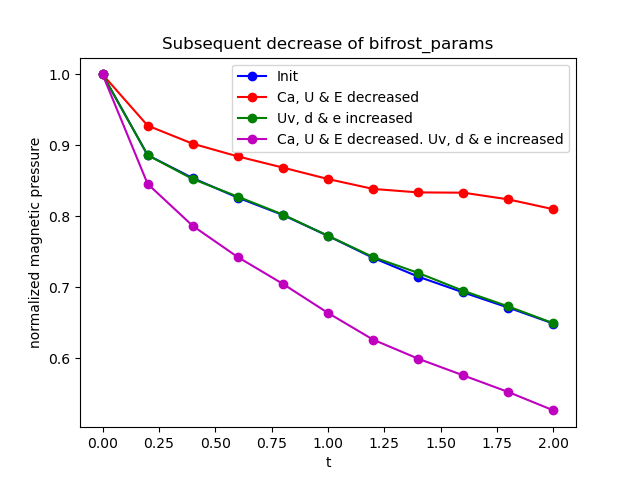
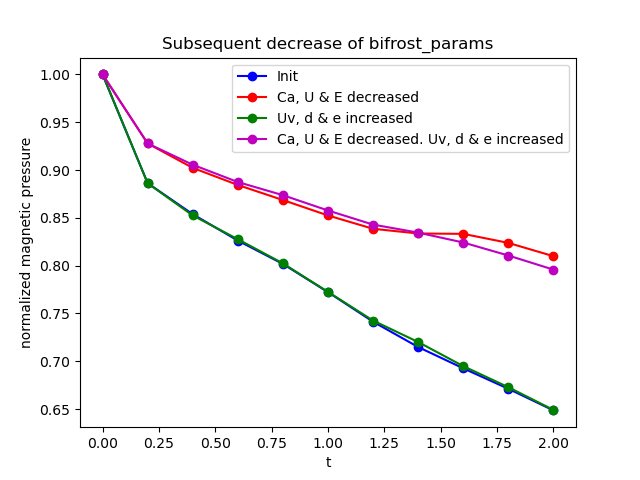
deploy: 311d6cb1bde16a8eb93fb808b51a810be9d6de2e

diff --git a/docs/searchindex.js b/docs/searchindex.js
@@ -1,1 +1,1 @@
-Search.setIndex({docnames:["briowu","index","magloop","mhd_blast","orszagtang","practiceI","practiceV","rayleigh_taylor","sedov","sod"],envversion:{"sphinx.domains.c":2,"sphinx.domains.changeset":1,"sphinx.domains.citation":1,"sphinx.domains.cpp":3,"sphinx.domains.index":1,"sphinx.domains.javascript":2,"sphinx.domains.math":2,"sphinx.domains.python":2,"sphinx.domains.rst":2,"sphinx.domains.std":2,sphinx:56},filenames:["briowu.rst","index.rst","magloop.rst","mhd_blast.rst","orszagtang.rst","practiceI.rst","practiceV.rst","rayleigh_taylor.rst","sedov.rst","sod.rst"],objects:{},objnames:{},objtypes:{},terms:{"004":[3,4,8],"0049":4,"005":4,"0067":4,"007":4,"008":4,"0085":4,"009":4,"0125":8,"022":3,"025":7,"0625":2,"0711":3,"0ms":3,"100":[0,3,6,8,9],"1000":[5,6],"1024":7,"1086":4,"1088":4,"10m":3,"125":[0,3,9],"128":7,"128x256":7,"192x192":4,"195":4,"1998":4,"1ms":3,"2008":4,"200x200":4,"2011":[4,7],"21m":3,"256":7,"256x256":4,"299c6d5":0,"300":5,"3000000":5,"306481":4,"3125":4,"38000":5,"427":4,"4277":4,"43000":5,"48s":4,"512":7,"588755":4,"5e8f853":[0,3,4,8,9],"7800":5,"8x8":3,"case":[1,2,8],"default":[7,9],"export":3,"final":[0,2,3,4,8,9],"function":7,"import":[5,6],"return":2,"throw":6,"while":[0,3,4,6,7,8,9],And:[2,8,9],Are:5,For:[0,2,3,4,8,9],The:[0,2,3,4,6,7,8,9],Their:4,Then:[3,4,8],There:[3,4,6,7],These:[0,3,4,8,9],Using:[2,3],With:[3,7],abel:7,abil:6,abov:[0,2,3,4,6,8,9],abrupt:4,accoridnagli:2,accoridngli:2,actual:4,addit:[3,8],addjust:[1,9],adjust:[1,3],advect:1,aff3841:2,affect:[0,3,7,9],afraid:6,after:[0,3,4,6,7],again:3,age:5,air:6,align:3,all:[0,1,2,4],almost:[3,4,8],along:4,also:[0,2,3,4,7],alwai:5,analysi:6,analyz:9,anoth:0,appar:3,appear:[2,3],approach:4,appropri:3,approxim:4,around:[3,4],arrai:[5,7],articl:4,axi:[4,9],back:7,bare:3,beat:6,becom:[3,7],been:[0,3],beer:6,befor:[0,4],begin:[0,3,4,9],behav:9,behaviour:[0,3],below:[0,2,3,4,5,6,8,9],better:[4,6],between:[3,4],bifrost:1,bifrost_param:[2,4],big:5,blast:[1,8],both:[3,4,7],bottom:[2,3,4,7],boundari:[4,7],box:[2,3],branch:[0,2,3,4,8,9],brio:1,british:6,brown:5,bx0:[3,8],by0:[3,8],bz0:[3,8],campar:5,can:[2,6,7,9],cartesian:[2,3],cartesian_param:[0,2,3,4,8],caus:[2,3],celebr:6,cell:4,center:[2,3],centr:[3,8],chang:[1,2,3,8,9],chaotic:7,check:2,circl:3,circular:2,clear:3,clearli:[2,3,7],climb:5,cm3:3,code:[5,9],coincid:[3,4],color:[3,5],colorbar:3,com:7,combin:2,come:6,commit:[8,9],compar:[1,2,3,4,7,9],comparison:[0,1,2,4],compil:4,complet:[0,2],compon:[0,3,8],comput:[0,3,4],condit:[1,7],configur:[0,3,4],consecut:6,consid:[2,4],constant:[7,8,9],continu:[0,3],contour:3,corner:[2,3],corrdin:3,correct:7,correspond:[0,3,4,8],crash:3,creat:3,curv:9,cycl:2,dane:6,darger:3,dark:3,declin:2,decreas:[0,3,9],deltai:7,deltavi:7,denisti:[0,9],densiti:[1,7],depend:7,deriv:4,despit:6,detail:[3,5,7],develop:[0,2,3,4,8,9],deviat:3,diamet:2,did:[3,4,7],differ:[0,1,2,4,8,9],dim:[0,2,3,4,8,9],dimens:4,dimmer:2,direct:[1,2,4],discov:[0,9],dispatch:[0,7],displai:2,distribut:[3,5],divid:9,do_check_nan:[2,3,4,8],document:7,doe:[4,7],doesn:3,don:4,done:6,dot:3,drop:4,due:3,durat:6,dure:[0,5,6,8,9],dymax:7,dymin:7,each:[0,3,4,9],eachoth:9,easiest:0,edg:3,effect:[2,3],either:9,ellipt:3,end:[3,4,6],end_tim:[2,3,4,8],energi:1,entir:3,environ:4,equat:[0,2,3,4],error:[0,9],eta:4,euro:6,evenli:3,everi:[5,8,9],everyon:5,evid:[0,3,6],evolut:[1,3,7],exactli:4,exce:4,except:[0,3,8],excericis:5,exist:7,experi:[0,1,2,4,9],experimemt:1,experiment:7,experiment_param:[3,8],explain:5,explicitli:2,factor:[0,3,8],fall:[6,7],fat:5,featur:3,field:[0,1],figur:[0,3,7,9],file:[0,9],fine:2,finer:7,finger:7,finish:0,first:[4,6,7,8,9],five:0,fix:[0,3,7,9],flawless:6,flow:7,fluctuat:4,follow:[0,3,5,7,8,9],follw:8,footbal:6,found:9,four:[2,4],from:[0,1,2,3,4,6,9],further:[0,2,3],gamma:[0,2,3,4,7,8,9],gap:2,gas:[2,4,7],get:[0,2,3,4],github:7,give:7,given:[3,8],goal:6,goalkeep:6,going:[3,5,8,9],good:5,got:[3,9],grace:[2,3,4,8],greater:4,grid:[2,3,4,9],had:4,half:0,has:[0,2,3,4,6,7],hash:[0,2,3,4,8,9],have:[0,2,3,4,6,7,8,9],heart:6,heartbeat:6,held:0,here:[0,2,3,4,8,9],high:[2,3,4],higher:[3,4],hoizont:9,hold:[8,9],home:6,hope:6,horizont:9,how:[3,7,9],howev:3,http:[4,7],human:5,ic_param:[2,4],ideal_mhd:7,ident:[3,4,8],idirect:[2,4],imag:[0,2,3,4,6,8],includ:[0,2,3,4,8,9],includnig:0,increas:[0,4,8,9],increment:4,indic:0,individu:1,init:[8,9],initi:[1,7],initialbifrost:9,input:0,insid:[3,8],instabl:1,instanc:8,interchan:3,interchang:[3,4],inth:5,intial:7,introduc:7,iop:4,iopscienc:4,irigin:3,ita:7,its:[0,2],jordan:6,just:[4,7],kap:4,kasper:6,keep:3,kill:5,know:5,label:5,lack:3,larg:3,larger:[3,4,7],last:9,lastli:8,later:[2,3,9],latter:3,law:[0,2,3,4],least:9,led:0,left:[0,2,3,4,8,9],legend:[0,5],less:[3,4,7],let:6,level:4,lie:[4,9],lies:[0,4],lighter:3,like:[3,6],line:[0,1,3,7,8],linear:7,linspac:[5,6],list:[0,2,3],littl:3,live:5,local:4,longer:3,look:[2,3,4,6,8],loop:1,lost:6,lot:3,low:3,lower:[2,3,4],made:7,magnet:[0,1],magnetohydrodynam:3,magnitud:1,magntic:4,magntiud:3,mai:3,main:[2,9],make:[0,7],make_plot:7,make_snap:7,manget:0,mani:3,martin:4,mas:4,match:4,matplotlib:[5,6],maxima:3,maximum:[3,4],medium:5,messag:[8,9],mhd:1,mhd_eo:[1,2,4,7],mhd_templat:7,middl:3,miniati:4,minimum:4,minor:3,minut:6,miss:6,more:[2,3,4,5,7],move:[2,7],mpi_dim:[2,3,4,8],much:4,must:3,name:[3,4],neither:3,never:[5,6],next:[5,9],nml:9,no_mans_land:[2,3,4,8],nois:3,noisi:3,non:7,none:3,nonzero:3,normal:1,notic:[0,2,3],now:[0,2,3,4,7,9],nu1:7,nu2:7,nu3:7,nu_r:7,number:[4,5,6,8,9],numpi:[5,6],obtain:[3,4],obvious:6,occur:4,ofd:4,omit:0,omp_num_thread:[3,4],onc:3,one:[0,4,6,7,8,9],ones:[0,3,6],onli:[2,3,4,9],option:0,order:[2,8],org:4,origin:[0,2,3,4,8],orszag:1,oscil:2,other:[0,2,3,4,7,8,9],otherwis:3,our:[4,9],out:3,out_param:[2,3,4],out_tim:[2,3,4,8],outcom:6,output:3,output_param:8,outsid:[3,8],over:2,overal:[2,3,4],overlap:[0,4],panel:[2,3,4],paragraph:6,paramet:1,part:[2,9],particular:[0,9],patch:3,patch_param:[0,2,3,4,8,9],pattern:7,pdf:4,peak:4,penalti:6,peopl:6,perform:[3,4],period:[2,3,4,8],permut:4,physiolog:6,pickford:6,pig:5,pink:5,place:2,placehold:7,plane:[1,4],player:6,plot:[0,2,3,4,5,6,7,9],plt:[5,6],pnale:3,point:4,pointi:3,posess:7,posit:2,possibl:[6,7],present:[3,8,9],pressur:[1,9],previou:[0,9],print_tim:[2,3,4,8],problem:[8,9],proce:4,produc:[0,9],profil:[0,1,3,7],program:0,purpos:6,pyplot:[5,6],python:5,quantit:3,quantiti:[0,3,4,7,8,9],quit:6,rach:4,radiu:3,rams:1,ramses:9,ramses_param:[1,3,9],rang:4,rate:6,rayleigh:1,reach:4,reason:6,rectangular:2,reduc:[1,2,3,8],reduct:[0,2,3],refer:0,region:3,relat:[2,5],remain:[0,2,3,4],remina:4,render:7,report:[0,2,3,4,8,9],repositori:7,repres:9,repsect:4,resembl:4,resolut:[1,7],respect:[0,3,4],respecti:0,result:[1,8,9],rho:[0,9],right:[0,2,3,4,7,8,9],rippl:2,roll:7,roughli:4,round:3,run:[0,1,2,3,4],ryu:4,same:[0,2,3,4,7,8,9],saw:3,scale:7,schmeichel:6,score:6,script:1,second:[4,7,8,9],sedov:1,see:[0,2,3,4,8,9],seem:[3,4],seen:6,separ:3,set:[0,2],setup:3,sever:9,shape:[2,3,4],shift:7,shootout:6,shooutout:6,shot:6,should:9,show:[0,2,3,4,5,6,8,9],shown:[0,2,3,4],side:[7,8],signific:3,similar:[3,4],similarli:[3,4],simpl:6,simul:[0,1,7],sin:6,sinc:[0,2,3],singl:1,size:[0,2,3,4,5,8],slice:4,slighlti:4,slight:3,slightli:[3,4],slope:1,slope_typ:[0,2,3,4,7,9],slope_type1:9,slope_type2:9,slope_type3:9,small:[3,4,5],smaller:7,smear:3,snapshot:[2,7,8],sod:1,solar:7,solut:7,solver:[1,7],some:[3,5,7],somewhat:3,specif:9,split:9,squirrel:5,stagger_param:4,start:[0,3,4],state:[0,2,3,4,7,9],steadi:2,steep:4,sterl:6,still:2,stone:4,straight:3,strang:3,stretch:3,strongest:3,studi:[0,2,3,5,7,9],subpar:6,subsequ:[0,3],sudden:4,swow:3,symmetr:7,symmetri:7,tabl:[0,3,5,6,8,9],tabul:2,taken:[4,7],tang:1,taylor:1,test:[0,8,9],than:[2,3,4,6],thei:4,therefor:0,thi:[0,2,3,4,5,6,7,9],thin:3,third:4,thorough:6,three:[0,2,4,6,9],thrid:4,throughout:[2,3],thu:4,time:[0,2,3,4,6,7,8,9],titl:5,tonight:6,too:4,top:[3,9],toward:[2,3,4],tri:7,turbul:7,two:[2,3,4,7,8],type:1,unabl:0,unadjust:[3,8,9],unchang:[0,1,8,9],uncom:7,until:4,updat:1,upper:[2,3,4],use:[0,2,3,7,8,9],used:[0,2,3,4,7,8,9],uses:9,using:[0,2,3,8],valu:[0,2,3,4,7,8,9],variabl:7,variou:[5,7],velciti:3,veloc:[0,1,2,9],veri:[2,3,4],verif:[0,3,8,9],verifi:9,video:6,visibl:[0,3],visual:2,vortex:1,wai:[3,4,8],want:[6,9],websit:5,well:[3,4],were:[0,3,4,8,9],what:[3,4],when:[3,5,8,9],where:[0,2,3,4,9],which:[0,2,3,4,6,9],whichwa:9,whirl:7,white:3,whole:2,why:5,wil:5,within:3,wonder:5,wone:0,work:[8,9],world:5,would:8,xlabel:5,year:5,yield:[2,3,4],ylabel:5,you:[5,6,8],zero:[2,4]},titles:["Brio&amp; Wu experimemts","Welcome to Summer 2021 report\u2019s documentation!","Magnetic Field Loop Advection","MHD Blast experiment","Orszag-Tang vortex","Site for Isak to do practice excercise","Site for Vetle to do practice excercise","Rayleigh Taylor instability","Sedov-Taylor experiment","Sod experimemts"],titleterms:{"2021":1,"case":3,"static":2,Gas:4,addjust:8,adjust:[0,9],advantag:6,advect:2,after:2,all:[3,8,9],anim:5,attack:5,bear:5,behaviour:2,bifrost:[0,2,3,4,7,8,9],bifrost_param:3,blast:3,brio:0,caus:5,chang:7,compar:[0,5],comparison:9,condit:[2,4,8,9],content:1,death:5,decreas:2,denmark:6,densiti:[0,3,4,8,9],describ:5,differ:[3,7],direct:[0,9],document:1,effect:7,energi:[3,4,8],england:6,evolut:2,excercis:[5,6],experi:[3,7,8],experimemt:[0,9],field:2,from:7,game:6,grid:7,increas:[2,3],individu:0,initi:[0,2,3,4,8,9],instabl:7,isak:5,line:4,loop:2,magnet:[2,3,4],magnitud:[3,4,8],mangnitud:3,mhd:3,mhd_eo:[0,3,9],normal:2,orszag:4,output:[2,4],paramat:4,paramet:[0,2,3,4,7,8,9],plane:[2,3,8],practic:[5,6],pressur:[2,3,4],profil:4,rams:[0,2,3,4,7,9],ramses_param:0,rayleigh:7,reduc:0,refer:4,report:1,resolut:[0,9],result:[0,2,3,4,7],run:7,script:7,sedov:8,simul:[2,3,4],singl:[0,9],site:[5,6],slope:[3,7,9],sod:9,solver:[0,2,3,4,8,9],summer:1,tang:4,taylor:[7,8],test:3,three:3,type:[3,7,9],unchang:2,updat:0,vari:7,veloc:[3,4,8],vetl:6,vortex:4,welcom:1,won:6}})
+Search.setIndex({docnames:["briowu","index","magloop","mhd_blast","orszagtang","practiceI","practiceV","rayleigh_taylor","sedov","sod"],envversion:{"sphinx.domains.c":2,"sphinx.domains.changeset":1,"sphinx.domains.citation":1,"sphinx.domains.cpp":3,"sphinx.domains.index":1,"sphinx.domains.javascript":2,"sphinx.domains.math":2,"sphinx.domains.python":2,"sphinx.domains.rst":2,"sphinx.domains.std":2,sphinx:56},filenames:["briowu.rst","index.rst","magloop.rst","mhd_blast.rst","orszagtang.rst","practiceI.rst","practiceV.rst","rayleigh_taylor.rst","sedov.rst","sod.rst"],objects:{},objnames:{},objtypes:{},terms:{"004":[3,4,8],"0049":4,"005":4,"0067":4,"007":4,"008":4,"0085":4,"009":4,"0125":8,"022":3,"025":7,"0625":2,"0711":3,"0ms":3,"100":[0,3,6,8,9],"1000":[5,6],"1024":7,"1086":4,"1088":4,"10m":3,"125":[0,3,9],"128":7,"128x256":7,"192x192":4,"195":4,"1998":4,"1ms":3,"2008":4,"200x200":4,"2011":[4,7],"21m":3,"256":7,"256x256":4,"299c6d5":0,"300":5,"3000000":5,"306481":4,"3125":4,"38000":5,"427":4,"4277":4,"43000":5,"48s":4,"512":7,"588755":4,"5e8f853":[0,3,4,8,9],"7800":5,"8x8":3,"case":[1,2,8],"default":[7,9],"export":3,"final":[0,2,3,4,8,9],"function":7,"import":[5,6],"return":2,"throw":6,"while":[0,2,3,4,6,7,8,9],And:[2,8,9],Are:5,For:[0,2,3,4,8,9],The:[0,2,3,4,6,7,8,9],Their:4,Then:[3,4,8],There:[3,4,6,7],These:[0,3,4,8,9],Using:[2,3],With:[2,3,7],abel:7,abil:6,abov:[0,2,3,4,6,8,9],abrupt:4,accoridnagli:2,accoridngli:2,actual:4,addit:[3,8],addjust:[1,9],adjust:[1,3],advect:1,aff3841:2,affect:[0,3,7,9],afraid:6,after:[0,3,4,6,7],again:[2,3],age:5,air:6,align:3,all:[0,1,2,4],almost:[3,4,8],along:4,also:[0,2,3,4,7],alwai:5,analysi:6,analyz:9,anoth:[0,2],appar:3,appear:[2,3],approach:4,appropri:3,approxim:4,around:[3,4],arrai:[5,7],articl:4,axi:[4,9],back:7,bare:3,beat:6,becom:[3,7],been:[0,3],beer:6,befor:[0,2,4],begin:[0,2,3,4,9],behav:9,behaviour:[0,3],below:[0,2,3,4,5,6,8,9],better:[4,6],between:[2,3,4],bifrost:1,bifrost_param:[2,4],big:5,blast:[1,8],both:[3,4,7],bottom:[2,3,4,7],boundari:[4,7],box:[2,3],branch:[0,2,3,4,8,9],brio:1,british:6,brown:5,bx0:[3,8],by0:[3,8],bz0:[3,8],campar:5,can:[2,6,7,9],cartesian:[2,3],cartesian_param:[0,2,3,4,8],caus:[2,3],celebr:6,cell:4,center:[2,3],centr:[3,8],chang:[1,2,3,8,9],chaotic:7,check:2,circl:3,circular:2,clear:3,clearli:[2,3,7],climb:5,cm3:3,code:[5,9],coincid:[3,4],color:[3,5],colorbar:3,com:7,combin:2,come:6,commit:[8,9],compar:[1,2,3,4,7,9],comparison:[0,1,2,4],compil:4,complet:[0,2],compon:[0,3,8],comput:[0,3,4],condit:[1,7],configur:[0,3,4],consecut:6,consid:[2,4],constant:[7,8,9],continu:[0,3],contour:3,corner:[2,3],corrdin:3,correct:7,correspond:[0,3,4,8],crash:[2,3],creat:3,curv:9,cycl:2,dane:6,darger:3,dark:3,declin:2,decreas:[0,3,9],deltai:7,deltavi:7,denisti:[0,9],densiti:[1,7],depend:7,deriv:4,despit:[2,6],detail:[3,5,7],develop:[0,2,3,4,8,9],deviat:3,diamet:2,did:[3,4,7],differ:[0,1,2,4,8,9],dim:[0,2,3,4,8,9],dimens:4,dimmer:2,direct:[1,2,4],discov:[0,9],dispatch:[0,7],displai:2,distribut:[3,5],divid:9,do_check_nan:[2,3,4,8],document:7,doe:[4,7],doesn:3,don:4,done:6,dot:3,drop:[2,4],due:3,durat:6,dure:[0,5,6,8,9],dymax:7,dymin:7,each:[0,2,3,4,9],eachoth:9,easiest:0,edg:3,effect:[2,3],either:9,ellipt:3,end:[2,3,4,6],end_tim:[2,3,4,8],energi:1,entir:3,environ:4,equat:[0,2,3,4],error:[0,9],eta:4,euro:6,evenli:3,everi:[5,8,9],everyon:5,evid:[0,3,6],evolut:[1,3,7],exactli:4,exce:4,except:[0,2,3,8],excericis:5,exist:7,experi:[0,1,2,4,9],experimemt:1,experiment:7,experiment_param:[3,8],explain:5,explicitli:2,factor:[0,2,3,8],fall:[6,7],fat:5,featur:3,field:[0,1],figur:[0,3,7,9],file:[0,9],fine:2,finer:7,finger:7,finish:0,first:[2,4,6,7,8,9],five:0,fix:[0,2,3,7,9],flawless:6,flow:7,fluctuat:4,follow:[0,3,5,7,8,9],follw:8,footbal:6,found:9,four:[2,4],from:[0,1,2,3,4,6,9],further:[0,3],gamma:[0,2,3,4,7,8,9],gap:2,gas:[2,4,7],get:[0,2,3,4],github:7,give:7,given:[3,8],goal:6,goalkeep:6,going:[3,5,8,9],good:5,got:[3,9],grace:[2,3,4,8],greater:4,grid:[2,3,4,9],had:4,half:[0,2],has:[0,2,3,4,6,7],hash:[0,2,3,4,8,9],have:[0,2,3,4,6,7,8,9],heart:6,heartbeat:6,held:[0,2],here:[0,2,3,4,8,9],high:[2,3,4],higher:[2,3,4],hoizont:9,hold:[8,9],home:6,hope:6,horizont:9,how:[3,7,9],howev:[2,3],http:[4,7],human:5,ic_param:[2,4],ideal_mhd:7,ident:[3,4,8],idirect:[2,4],imag:[0,2,3,4,6,8],includ:[0,2,3,4,8,9],includnig:0,increas:[0,4,8,9],increment:4,indic:0,individu:1,init:[8,9],initi:[1,7],initialbifrost:9,input:0,insid:[3,8],instabl:1,instanc:8,interchan:3,interchang:[3,4],inth:5,intial:7,introduc:7,iop:4,iopscienc:4,irigin:3,ita:7,its:[0,2],jordan:6,just:[4,7],kap:4,kasper:6,keep:3,kill:5,know:5,label:5,lack:3,larg:3,larger:[3,4,7],last:9,lastli:8,later:[2,3,9],latter:3,law:[0,2,3,4],least:9,led:0,left:[0,2,3,4,8,9],legend:[0,5],less:[3,4,7],let:6,level:4,lie:[2,4,9],lies:[0,2,4],lighter:3,like:[3,6],line:[0,1,3,7,8],linear:7,linspac:[5,6],list:[0,2,3],littl:[2,3],live:5,local:4,longer:3,look:[2,3,4,6,8],loop:1,lost:6,lot:3,low:3,lower:[2,3,4],lying:2,made:7,magnet:[0,1],magnetohydrodynam:3,magnitud:1,magntic:4,magntiud:3,mai:3,main:[2,9],make:[0,2,7],make_plot:7,make_snap:7,manget:0,mani:3,martin:4,mas:4,match:4,matplotlib:[5,6],maxima:3,maximum:[3,4],medium:5,messag:[8,9],mhd:1,mhd_eo:[1,2,4,7],mhd_templat:7,middl:3,miniati:4,minimum:4,minor:3,minut:6,miss:6,more:[2,3,4,5,7],move:[2,7],mpi_dim:[2,3,4,8],much:4,multipli:2,must:3,name:[3,4],neither:3,never:[5,6],next:[5,9],nml:9,no_mans_land:[2,3,4,8],nois:3,noisi:3,non:7,none:3,nonzero:3,normal:1,notic:[0,2,3],now:[0,2,3,4,7,9],nu1:7,nu2:7,nu3:7,nu_r:7,number:[4,5,6,8,9],numpi:[5,6],obtain:[3,4],obvious:6,occur:4,ofd:4,omit:0,omp_num_thread:[3,4],onc:[2,3],one:[0,2,4,6,7,8,9],ones:[0,3,6],onli:[2,3,4,9],option:0,order:[2,8],org:4,origin:[0,2,3,4,8],orszag:1,oscil:2,other:[0,2,3,4,7,8,9],otherwis:3,our:[4,9],out:3,out_param:[2,3,4],out_tim:[2,3,4,8],outcom:6,output:3,output_param:8,outsid:[3,8],over:2,overal:[2,3,4],overlap:[0,4],panel:[2,3,4],paragraph:6,paramet:1,part:[2,9],particular:[0,9],patch:3,patch_param:[0,2,3,4,8,9],pattern:7,pdf:4,peak:4,penalti:6,peopl:6,perform:[3,4],period:[2,3,4,8],permut:4,physiolog:6,pickford:6,pig:5,pink:5,place:2,placehold:7,plane:[1,4],player:6,plot:[0,2,3,4,5,6,7,9],plt:[5,6],pnale:3,point:4,pointi:3,posess:7,posit:2,possibl:[6,7],present:[3,8,9],pressur:[1,9],previou:[0,9],print_tim:[2,3,4,8],problem:[8,9],proce:4,produc:[0,9],profil:[0,1,3,7],program:0,purpos:6,pyplot:[5,6],python:5,quantit:3,quantiti:[0,3,4,7,8,9],quit:6,rach:4,radiu:3,rams:1,ramses:9,ramses_param:[1,3,9],rang:4,rate:6,rayleigh:1,reach:4,reason:6,rectangular:2,reduc:[1,2,3,8],reduct:[0,2,3],refer:[0,2],region:3,relat:[2,5],remain:[0,2,3,4],remina:4,render:7,report:[0,2,3,4,8,9],repositori:7,repres:9,repsect:4,resembl:4,resolut:[1,7],respect:[0,2,3,4],respecti:0,result:[1,8,9],rho:[0,9],right:[0,2,3,4,7,8,9],rippl:2,roll:7,roughli:4,round:3,run:[0,1,2,3,4],ryu:4,same:[0,2,3,4,7,8,9],saw:3,scale:7,schmeichel:6,score:6,script:1,second:[4,7,8,9],sedov:1,see:[0,2,3,4,8,9],seem:[3,4],seen:6,separ:3,set:[0,2],setup:3,sever:9,shape:[2,3,4],shift:7,shootout:6,shooutout:6,shot:6,should:9,show:[0,2,3,4,5,6,8,9],shown:[0,2,3,4],side:[7,8],signific:[2,3],similar:[3,4],similarli:[3,4],simpl:6,simul:[0,1,7],simultan:2,sin:6,sinc:[0,2,3],singl:1,size:[0,2,3,4,5,8],slice:4,slighlti:4,slight:3,slightli:[2,3,4],slope:1,slope_typ:[0,2,3,4,7,9],slope_type1:9,slope_type2:9,slope_type3:9,small:[3,4,5],smaller:7,smear:3,snapshot:[2,7,8],sod:1,solar:7,solut:7,solver:[1,7],some:[3,5,7],somewhat:3,specif:9,split:9,squirrel:5,stagger_param:4,start:[0,3,4],state:[0,2,3,4,7,9],steadi:2,steep:4,sterl:6,still:2,stone:4,straight:3,strang:3,stretch:3,strongest:3,studi:[0,2,3,5,7,9],subpar:6,subsequ:[0,2,3],sudden:4,swow:3,symmetr:7,symmetri:7,tabl:[0,3,5,6,8,9],tabul:2,taken:[4,7],tang:1,taylor:1,test:[0,8,9],than:[2,3,4,6],thei:4,therefor:0,thi:[0,2,3,4,5,6,7,9],thin:3,third:4,thorough:6,three:[0,2,4,6,9],thrid:4,throughout:[2,3],thu:4,time:[0,2,3,4,6,7,8,9],titl:5,tonight:6,too:4,top:[3,9],toward:[2,3,4],tri:7,turbul:7,two:[2,3,4,7,8],type:1,unabl:0,unadjust:[3,8,9],unchang:[0,1,8,9],uncom:7,until:4,updat:1,upper:[2,3,4],use:[0,2,3,7,8,9],used:[0,2,3,4,7,8,9],uses:9,using:[0,2,3,8],valu:[0,2,3,4,7,8,9],variabl:7,variou:[5,7],velciti:3,veloc:[0,1,2,9],veri:[2,3,4],verif:[0,3,8,9],verifi:9,video:6,visibl:[0,3],visual:2,vortex:1,wai:[3,4,8],want:[6,9],websit:5,well:[3,4],were:[0,2,3,4,8,9],what:[3,4],when:[2,3,5,8,9],where:[0,2,3,4,9],which:[0,2,3,4,6,9],whichwa:9,whirl:7,white:3,whole:2,why:5,wil:5,within:3,wonder:5,wone:0,work:[8,9],world:5,would:8,xlabel:5,year:5,yield:[2,3,4],ylabel:5,you:[5,6,8],zero:[2,4]},titles:["Brio&amp; Wu experimemts","Welcome to Summer 2021 report\u2019s documentation!","Magnetic Field Loop Advection","MHD Blast experiment","Orszag-Tang vortex","Site for Isak to do practice excercise","Site for Vetle to do practice excercise","Rayleigh Taylor instability","Sedov-Taylor experiment","Sod experimemts"],titleterms:{"2021":1,"case":3,"static":2,Gas:4,addjust:8,adjust:[0,2,9],advantag:6,advect:2,after:2,all:[3,8,9],anim:5,attack:5,bear:5,behaviour:2,bifrost:[0,2,3,4,7,8,9],bifrost_param:3,blast:3,brio:0,caus:5,chang:7,compar:[0,5],comparison:9,condit:[2,4,8,9],content:1,deacreas:2,death:5,decreas:2,denmark:6,densiti:[0,3,4,8,9],describ:5,differ:[3,7],direct:[0,9],document:1,effect:7,energi:[3,4,8],england:6,evolut:2,excercis:[5,6],experi:[3,7,8],experimemt:[0,9],field:2,from:7,further:2,game:6,grid:7,increas:[2,3],individu:0,initi:[0,2,3,4,8,9],instabl:7,isak:5,line:4,loop:2,magnet:[2,3,4],magnitud:[3,4,8],mangnitud:3,mhd:3,mhd_eo:[0,3,9],multipl:2,normal:2,orszag:4,output:[2,4],paramat:4,paramet:[0,2,3,4,7,8,9],plane:[2,3,8],practic:[5,6],pressur:[2,3,4],profil:4,rams:[0,2,3,4,7,9],ramses_param:0,rayleigh:7,reduc:0,refer:4,report:1,resolut:[0,9],result:[0,2,3,4,7],run:7,script:7,sedov:8,simul:[2,3,4],singl:[0,9],site:[5,6],slope:[3,7,9],sod:9,solver:[0,2,3,4,8,9],summer:1,tang:4,taylor:[7,8],test:3,three:3,type:[3,7,9],unchang:2,updat:0,vari:7,veloc:[3,4,8],vetl:6,vortex:4,welcom:1,won:6}})

diff --git a/docs/magloop.html b/docs/magloop.html
@@ -219,10 +219,10 @@
 <div class="section" id="behaviour-of-loop-in-the-xy-plane">
 <h3>Behaviour of loop in the xy-plane<a class="headerlink" href="#behaviour-of-loop-in-the-xy-plane" title="Permalink to this headline">¶</a></h3>
 <p>Now, we include snapshots of the run in the <strong>xy-plane</strong> to show the behaviour of the loop throughout the simulation. This will be used for comparison later on</p>
-<a class="reference internal image-reference" href="Mag_img/xy_initial/magnetic_pressure_xy_0.png"><img alt="Mag_img/xy_initial/magnetic_pressure_xy_0.png" src="Mag_img/xy_initial/magnetic_pressure_xy_0.png" style="width: 48%;" /></a>
-<a class="reference internal image-reference" href="Mag_img/xy_initial/magnetic_pressure_xy_2.png"><img alt="Mag_img/xy_initial/magnetic_pressure_xy_2.png" src="Mag_img/xy_initial/magnetic_pressure_xy_2.png" style="width: 48%;" /></a>
-<a class="reference internal image-reference" href="Mag_img/xy_initial/magnetic_pressure_xy_4.png"><img alt="Mag_img/xy_initial/magnetic_pressure_xy_4.png" src="Mag_img/xy_initial/magnetic_pressure_xy_4.png" style="width: 48%;" /></a>
-<a class="reference internal image-reference" href="Mag_img/xy_initial/magnetic_pressure_xy_5.png"><img alt="Mag_img/xy_initial/magnetic_pressure_xy_5.png" src="Mag_img/xy_initial/magnetic_pressure_xy_5.png" style="width: 48%;" /></a>
+<a class="reference internal image-reference" href="_images/magnetic_pressure_loop_xy_01.png"><img alt="_images/magnetic_pressure_loop_xy_01.png" src="_images/magnetic_pressure_loop_xy_01.png" style="width: 48%;" /></a>
+<a class="reference internal image-reference" href="_images/magnetic_pressure_loop_xy_2.png"><img alt="_images/magnetic_pressure_loop_xy_2.png" src="_images/magnetic_pressure_loop_xy_2.png" style="width: 48%;" /></a>
+<a class="reference internal image-reference" href="_images/magnetic_pressure_loop_xy_4.png"><img alt="_images/magnetic_pressure_loop_xy_4.png" src="_images/magnetic_pressure_loop_xy_4.png" style="width: 48%;" /></a>
+<a class="reference internal image-reference" href="_images/magnetic_pressure_loop_xy_5.png"><img alt="_images/magnetic_pressure_loop_xy_5.png" src="_images/magnetic_pressure_loop_xy_5.png" style="width: 48%;" /></a>
 <p>And the loop has returned to the initial state after t=1s.</p>
 </div>
 <div class="section" id="static-behaviour">
@@ -244,12 +244,21 @@
 <p>We will now study the evolution of the normalized magnetic pressure throughout the simulation.</p>
 <div class="section" id="increasing-and-decreasing-bifrost-parameters">
 <h3>Increasing and decreasing bifrost parameters<a class="headerlink" href="#increasing-and-decreasing-bifrost-parameters" title="Permalink to this headline">¶</a></h3>
+<p>We begin by studying the effect of subsequently increasing each bifrost parameter while the other are held fixed. For the increase, all bifrost parameters were multiplied by a factor of 5, except from E, which was multiplied by a factor of 2.5 since E=2.5 caused the simulation to crash. The resulting normalized pressure evolution is plotted below on the left panel. On the right panel we show the effect of decreasing the bifrost parameters subsequently by a factor of 2, i.e. using half of the original values.</p>
 <a class="reference internal image-reference" href="_images/loop_xy_mod_incr_pb_evolution.png"><img alt="_images/loop_xy_mod_incr_pb_evolution.png" src="_images/loop_xy_mod_incr_pb_evolution.png" style="width: 48%;" /></a>
 <a class="reference internal image-reference" href="_images/loop_xy_mod_red_pb_evolution.png"><img alt="_images/loop_xy_mod_red_pb_evolution.png" src="_images/loop_xy_mod_red_pb_evolution.png" style="width: 48%;" /></a>
-<p>Now, we report the effects by a further decrease of the parameters</p>
+<p>We see that there is little increase of the pressure by increasing the bifrost parameters. However, between t=1 and t=1.75 the pressure is higher than the initial value when the parameter e was increased to a value of e=0.25. The parameters Ca, U &amp; E caused a significant pressure drop when increased. With decreased parameter there is a noticeable pressure increase when the parameters Ca, U &amp; E were reduced, which are the same parameters that caused a pressure drop when increased. The parameter Uv causes the pressure to drop slightly when increased, while there is little noticeable change when the parameters d &amp; e are reduced.</p>
+</div>
+<div class="section" id="further-deacrease-of-bifrost-parameters">
+<h3>Further deacrease of bifrost parameters<a class="headerlink" href="#further-deacrease-of-bifrost-parameters" title="Permalink to this headline">¶</a></h3>
+<p>Now, we report the effects by a further decrease of the parameters, where each parameter is subsequently reduced by a factor of 5 and by a factor of 10, shown in the left an right panel below, respectively.</p>
 <a class="reference internal image-reference" href="_images/loop_xy_fact5-red_pb_evolution.png"><img alt="_images/loop_xy_fact5-red_pb_evolution.png" src="_images/loop_xy_fact5-red_pb_evolution.png" style="width: 48%;" /></a>
 <a class="reference internal image-reference" href="_images/loop_xy_fact10-red_pb_evolution.png"><img alt="_images/loop_xy_fact10-red_pb_evolution.png" src="_images/loop_xy_fact10-red_pb_evolution.png" style="width: 48%;" /></a>
-<p>For the combined, we get</p>
+<p>The image on the left panel below shows that Ca, U &amp; E yields a higher pressure evolution than before. However, despite lying below the initial value when reduced by a factor 2, Uv lies slightly above the initial value when reduced by a factor of 5. This factor causes the pressure to lie below the initial one when adjusting e. On the right panel above we once again see the further increase in pressure for Ca, U &amp; E. Uv lies below the initial result at first, but lies above towards the end of the simulation. e is clearly below the initial pressure result, while d now lies slightly below the initial.</p>
+</div>
+<div class="section" id="multiple-adjustment-of-bifrost-parameters">
+<h3>Multiple adjustment of bifrost parameters<a class="headerlink" href="#multiple-adjustment-of-bifrost-parameters" title="Permalink to this headline">¶</a></h3>
+<p>Now we will study the combined effect, where we adjust multiple bifrost parameters simultaneously. We will report the result of increasing Uv, d &amp; e by a factor of 2. Another adjustment we make is decreasing Ca, U &amp; E by a factor of 2. Finally, we study the effect of increasing Uv, d &amp; e by a factor of 2 while simultaneously decreasing Ca, U &amp; E by a factor of 2. The pressure evolution for these three combinations are plotted below, where the initial result is included for reference.</p>
 <a class="reference internal image-reference" href="_images/loop_xy_comb-adjust_pb_evolution.png"><img alt="_images/loop_xy_comb-adjust_pb_evolution.png" src="_images/loop_xy_comb-adjust_pb_evolution.png" style="width: 48%;" /></a>
 </div>
 <div class="section" id="loop-evolution-after-decrease">
